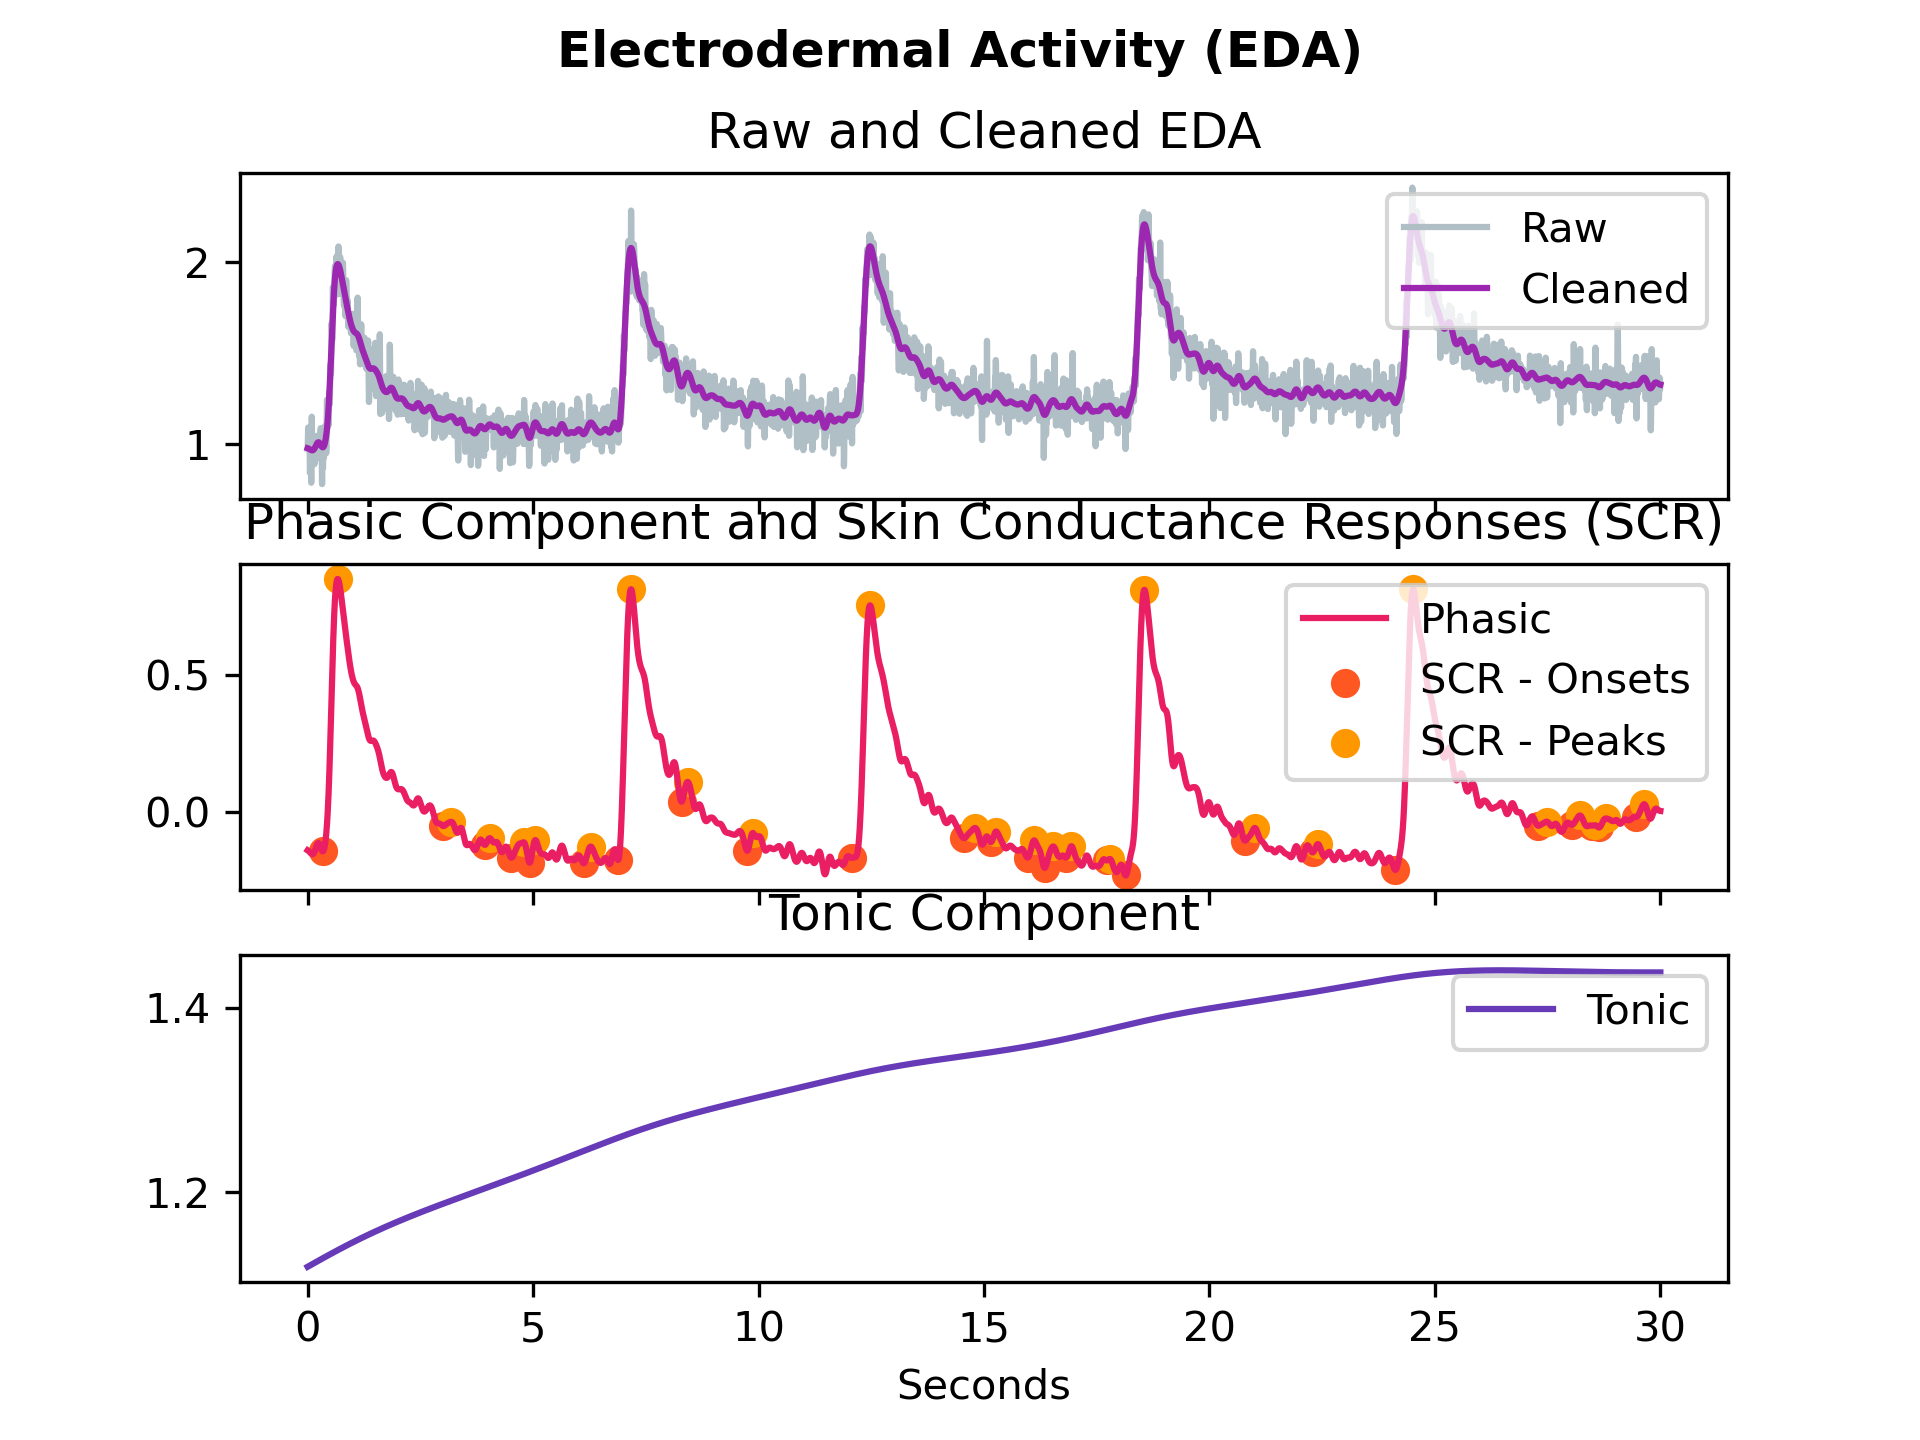
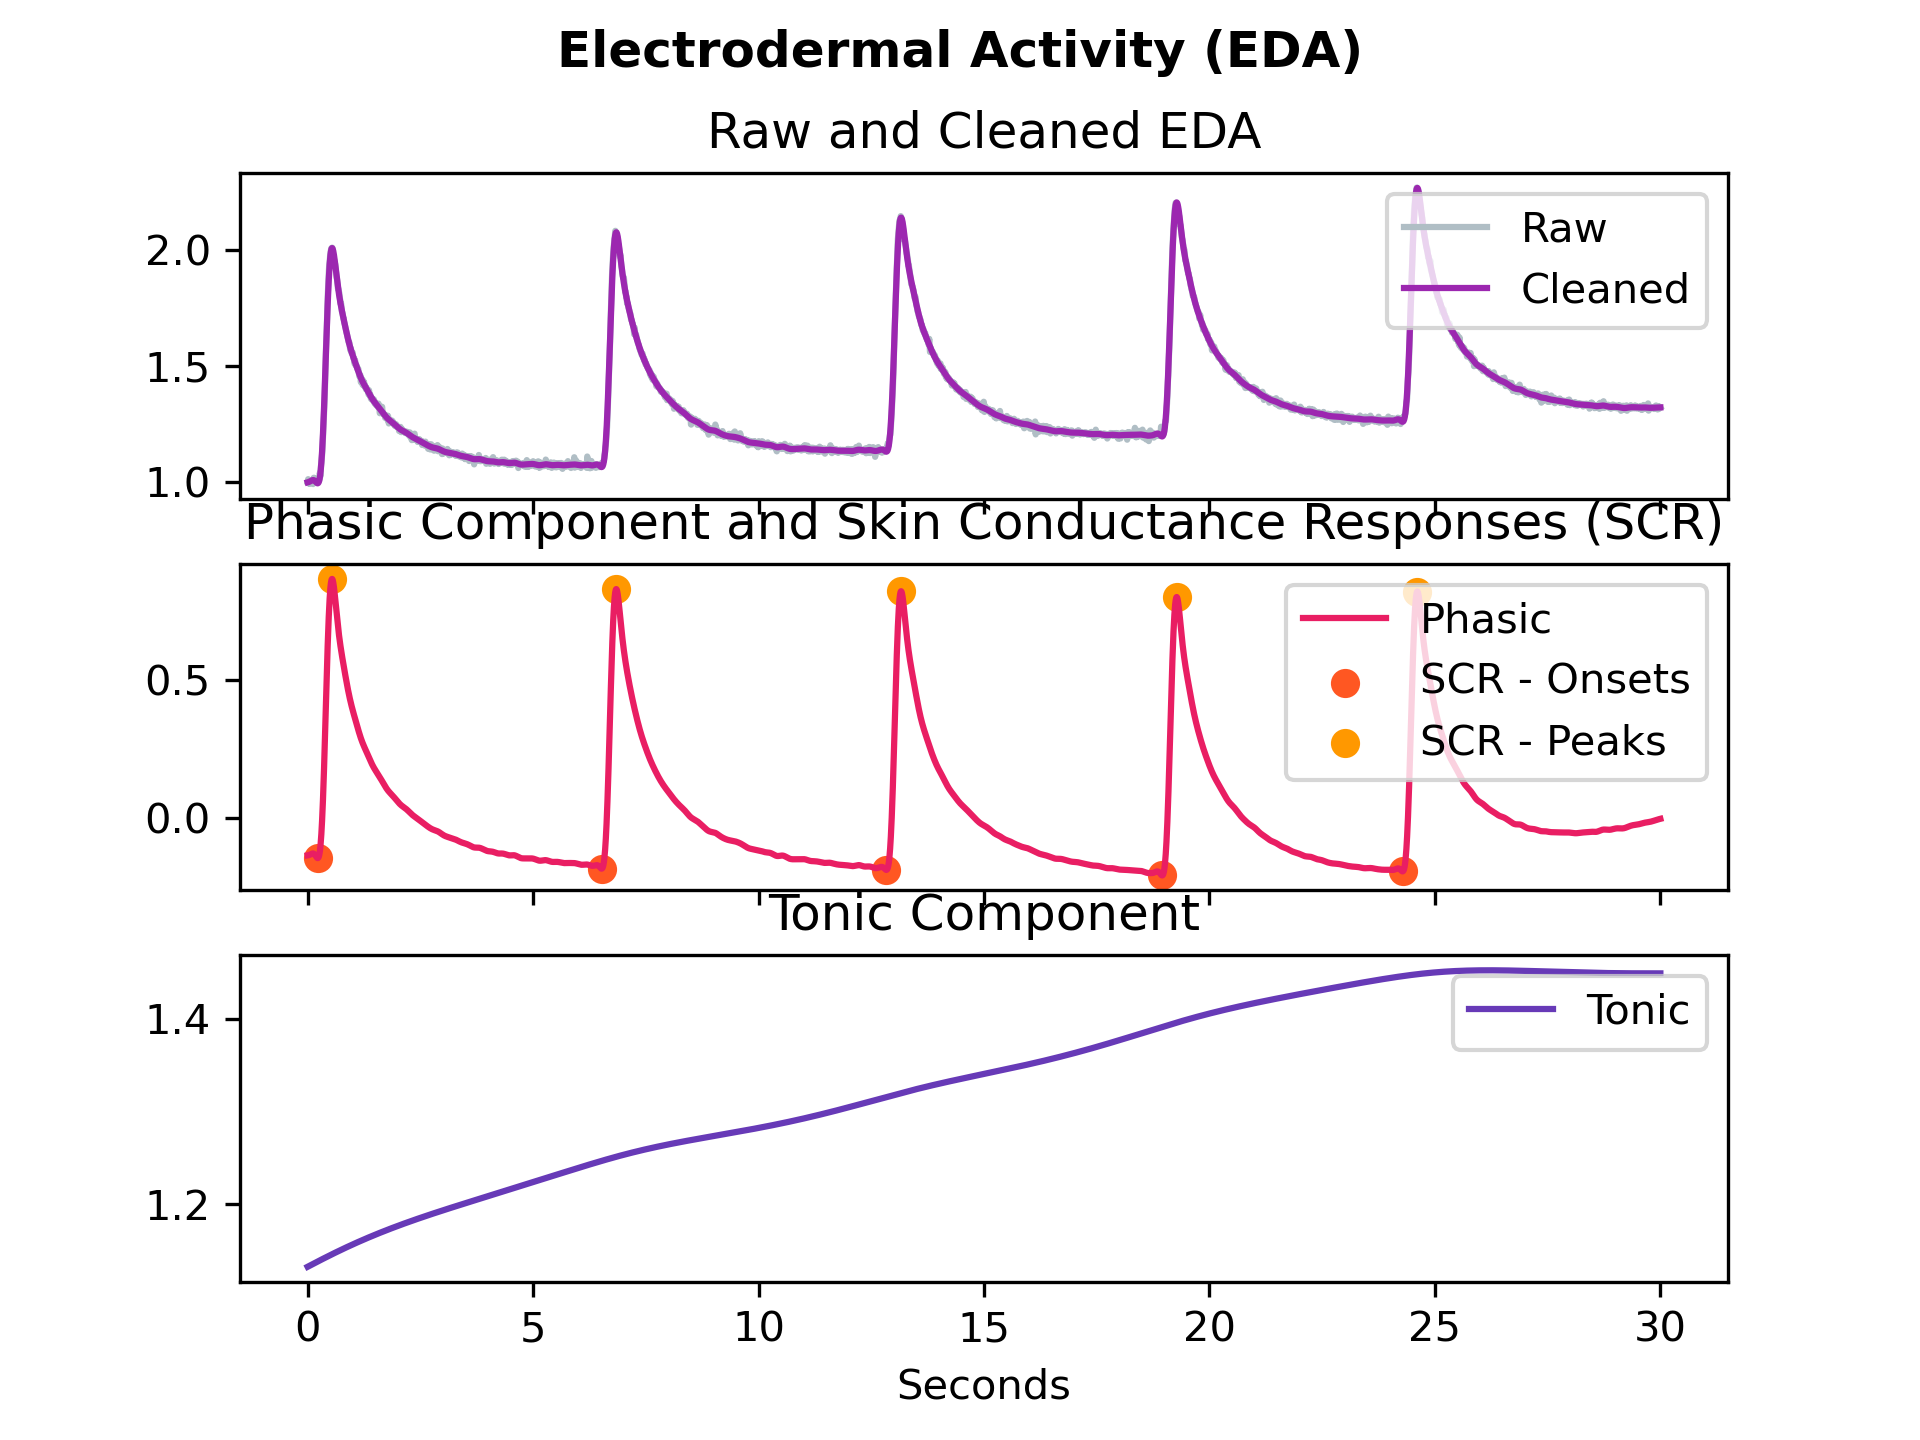
fixes and README

diff --git a/neurokit2/signal/signal_findpeaks.py b/neurokit2/signal/signal_findpeaks.py
@@ -9,7 +9,7 @@ from .signal_zerocrossings import signal_zerocrossings
 from ..misc import findclosest
 
 
-def signal_findpeaks(signal, height_min=None, width_min=None, height_max=None, width_max=None, relative_height_min=None, relative_width_min=None, relative_height_max=None, relative_width_max=None):
+def signal_findpeaks(signal, height_min=None, height_max=None, relative_height_min=None, relative_height_max=None, relative_mean=True, relative_median=False, relative_max=False):
     """Find peaks in a signal.
 
     Locate peaks (local maxima) in a signal and their related characteristics, such as height (prominence), width and distance with other peaks.
@@ -18,10 +18,12 @@ def signal_findpeaks(signal, height_min=None, width_min=None, height_max=None, w
     ----------
     signal : list, array or Series
         The signal channel in the form of a vector of values.
-    distance_min, height_min, width_min, distance_max, height_max, width_max : float
-        The minimum or maximum distance (between peaks, in number of sample points), height (i.e., amplitude in terms of absolute values) or width of the peaks (in number of sample points). For example, `distance_min=20` will remove all peaks which distance with the previous peak is smaller or equal to 20 sample points.
-    relative_distance_min, relative_height_min, relative_width_min, relative_distance_max, relative_height_max, relative_width_max : float
-        The minimum or maximum distance (between peaks), height (i.e., amplitude) or width of the peaks in terms of standard deviation from the sample. For example, `relative_distance_min=-2.96` will remove all peaks which distance lies below 2.96 standard deviations from the mean of the distances.
+    height_min, distance_max : float
+        The minimum or maximum height (i.e., amplitude in terms of absolute values). For example, `height_min=20` will remove all peaks which height is smaller or equal to 20 (in the provided signal's values).
+    relative_height_min, relative_height_max : float
+        The minimum or maximum height (i.e., amplitude) relative to the sample (see below).
+    relative_mean, relative_median, relative_max : bool
+        If a relative threshold is specified, how should it be computed (i.e., relative to what?). `relative_mean=True` will use Z-scores. For example, `relative_height_min=-2.96` will remove all peaks which height lies below 2.96 standard deviations from the mean of the heights. Relative to median uses a more robust form of standardization (see `standardize`), and relative to max will consider the maximum height as the reference.
 
     Returns
     ----------
@@ -31,8 +33,8 @@ def signal_findpeaks(signal, height_min=None, width_min=None, height_max=None, w
             - 'Distance' contains, for each peak, the closest distance with another peak. Note that these values will be recomputed after filtering to match the selected peaks.
             - 'Height' contains the prominence of each peak. See `scipy.signal.peak_prominences()`.
             - 'Width' contains the width of each peak. See `scipy.signal.peak_widths()`.
-            - 'Onset' contains the onset, start (or left trough), of each peak. See `scipy.signal.peak_widths()`.
-            - 'Offset' contains the offset, end (or right trough), of each peak. See `scipy.signal.peak_widths()`.
+            - 'Onset' contains the onset, start (or left trough), of each peak.
+            - 'Offset' contains the offset, end (or right trough), of each peak.
 
     Examples
     ---------
@@ -58,43 +60,30 @@ def signal_findpeaks(signal, height_min=None, width_min=None, height_max=None, w
 
     See Also
     --------
-    scipy.signal.find_peaks, scipy.signal.peak_widths, peak_prominences.signal.peak_widths
+    scipy.signal.find_peaks, scipy.signal.peak_widths, peak_prominences.signal.peak_widths, eda_findpeaks, ecg_findpeaks, rsp_findpeaks
     """
     info = _signal_findpeaks_scipy(signal)
 
-    keep = np.full(len(info["Peaks"]), True)
+    # Absolute
+    info = _signal_findpeaks_keep(info, what="Height",
+                                  below=height_max,
+                                  above=height_min,
+                                  relative_mean=False,
+                                  relative_median=False,
+                                  relative_max=False)
 
-    # Absolute indices - min
-    if height_min is not None:
-        keep[info["Height"] < height_min] = False
-    if width_min is not None:
-        keep[info["Width"] < width_min] = False
-
-    # Absolute indices - max
-    if height_max is not None:
-        keep[info["Height"] > height_max] = False
-    if width_max is not None:
-        keep[info["Width"] > width_max] = False
-
-    # Relative indices - min
-    if relative_height_min is not None:
-        keep[standardize(info["Height"]) < relative_height_min] = False
-    if relative_width_min is not None:
-        keep[standardize(info["Width"]) < relative_width_min] = False
-
-    # Relative indices - max
-    if relative_height_max is not None:
-        keep[standardize(info["Height"]) > relative_height_max] = False
-    if relative_width_max is not None:
-        keep[standardize(info["Width"]) > relative_width_max] = False
+    # Relative
+    info = _signal_findpeaks_keep(info, what="Height",
+                                  below=relative_height_max,
+                                  above=relative_height_min,
+                                  relative_mean=relative_mean,
+                                  relative_median=relative_median,
+                                  relative_max=relative_max)
 
     # Filter
-    info["Peaks"] = info["Peaks"][keep]
     info["Distance"] = _signal_findpeaks_distances(info["Peaks"])
-    info["Height"] = info["Height"][keep]
-    info["Width"] = info["Width"][keep]
-    info["Onset"] = _signal_findpeaks_base(info["Peaks"], signal, what="onset")
-    info["Offset"] = _signal_findpeaks_base(info["Peaks"], signal, what="offset")
+    info["Onset"] = _signal_findpeaks_findbase(info["Peaks"], signal, what="onset")
+    info["Offset"] = _signal_findpeaks_findbase(info["Peaks"], signal, what="offset")
 
     return info
 
@@ -103,8 +92,51 @@ def signal_findpeaks(signal, height_min=None, width_min=None, height_max=None, w
 
 
 # =============================================================================
-# Internals
+# Filtering peaks
 # =============================================================================
+
+def _signal_findpeaks_keep(info, what="Height", below=None, above=None, relative_mean=False, relative_median=False, relative_max=False):
+
+    if below is None and above is None:
+        return info
+
+
+    keep = np.full(len(info["Peaks"]), True)
+
+    what = info[what]
+    if relative_mean is True:
+        what = standardize(what)
+    if relative_median is True:
+        what = standardize(what, robust=True)
+    if relative_median is True:
+        what = what / np.max(what)
+
+    if below is not None:
+        keep[what > below] = False
+    if above is not None:
+        keep[what < above] = False
+
+    info = _signal_findpeaks_filter(info, keep)
+    return info
+
+
+
+
+
+
+
+def _signal_findpeaks_filter(info, keep):
+    for key in info.keys():
+        info[key] = info[key][keep]
+
+    return info
+
+
+
+# =============================================================================
+# Helpers
+# =============================================================================
+
 
 
 def _signal_findpeaks_distances(peaks):
@@ -120,7 +152,7 @@ def _signal_findpeaks_distances(peaks):
 
 
 
-def _signal_findpeaks_base(peaks, signal, what="onset"):
+def _signal_findpeaks_findbase(peaks, signal, what="onset"):
     if what == "onset":
         direction = "smaller"
     else:
@@ -128,11 +160,11 @@ def _signal_findpeaks_base(peaks, signal, what="onset"):
 
     troughs, _ = scipy.signal.find_peaks(-1*signal)
 
-    onsets = np.zeros(len(peaks))
+    bases = np.zeros(len(peaks))
     for i, peak in enumerate(peaks):
-        onsets[i] = findclosest(peak, troughs, direction=direction, strictly=True)
+        bases[i] = findclosest(peak, troughs, direction=direction, strictly=True)
 
-    return onsets
+    return bases
 
 
 

diff --git a/neurokit2/eda/eda_findpeaks.py b/neurokit2/eda/eda_findpeaks.py
@@ -8,11 +8,10 @@ import scipy.signal
 from ..signal import signal_smooth
 from ..signal import signal_zerocrossings
 from ..signal import signal_findpeaks
-from ..signal import signal_smooth
 
 
 
-def eda_findpeaks(eda_phasic, sampling_rate=1000, method="gamboa2008"):
+def eda_findpeaks(eda_phasic, sampling_rate=1000, method="neurokit", amplitude_min=0.1):
     """Identify Skin Conductance Responses (SCR) in Electrodermal Activity (EDA).
 
     Identify Skin Conductance Responses (SCR) peaks in the phasic component of
@@ -30,8 +29,10 @@ def eda_findpeaks(eda_phasic, sampling_rate=1000, method="gamboa2008"):
     sampling_rate : int
         The sampling frequency of the EDA signal (in Hz, i.e., samples/second).
     method : str
-        The processing pipeline to apply. Can be one of "gamboa2008"
-        (default) or "kim2004".
+        The processing pipeline to apply. Can be one of "neurokit" (default),
+        "gamboa2008" or "kim2004" (the default in BioSPPy).
+    amplitude_min : float
+        Only used if 'method' is 'neurokit' or 'kim2004'. Minimum threshold by which to exclude SCRs (peaks) as relative to the largest amplitude in the signal.
 
     Returns
     -------
@@ -68,6 +69,11 @@ def eda_findpeaks(eda_phasic, sampling_rate=1000, method="gamboa2008"):
     >>> nk.events_plot([info_gamboa2008["SCR_Peaks"],
                         info_kim2004["SCR_Peaks"],
                         info_neurokit["SCR_Peaks"]], eda_phasic)
+
+    References
+    ----------
+    - Gamboa, H. (2008). Multi-modal behavioral biometrics based on hci and electrophysiology. PhD ThesisUniversidade.
+    - Kim, K. H., Bang, S. W., & Kim, S. R. (2004). Emotion recognition system using short-term monitoring of physiological signals. Medical and biological engineering and computing, 42(3), 419-427.
     """
     # Try to retrieve the right column if a dataframe is passed
     if isinstance(eda_phasic, pd.DataFrame):
@@ -81,9 +87,9 @@ def eda_findpeaks(eda_phasic, sampling_rate=1000, method="gamboa2008"):
     if method in ["gamboa2008", "gamboa"]:
         info = _eda_findpeaks_gamboa2008(eda_phasic)
     elif method in ["kim", "kbk", "kim2004", 'biosppy']:
-        info = _eda_findpeaks_kim2004(eda_phasic, sampling_rate=sampling_rate, amplitude_min=0.1)
+        info = _eda_findpeaks_kim2004(eda_phasic, sampling_rate=sampling_rate, amplitude_min=amplitude_min)
     elif method in ['neurokit', 'neurokit2', 'nk']:
-        info = _eda_findpeaks_neurokit(eda_phasic, sampling_rate=sampling_rate)
+        info = _eda_findpeaks_neurokit(eda_phasic, sampling_rate=sampling_rate, amplitude_min=amplitude_min)
     else:
         raise ValueError("NeuroKit error: eda_findpeaks(): 'method' should be "
                          "one of 'neurokit', 'gamboa2008' or 'kim2004'.")
@@ -113,9 +119,9 @@ def eda_findpeaks(eda_phasic, sampling_rate=1000, method="gamboa2008"):
 # Methods
 # =============================================================================
 
-def _eda_findpeaks_neurokit(eda_phasic, sampling_rate=1000):
+def _eda_findpeaks_neurokit(eda_phasic, sampling_rate=1000, amplitude_min=0.1):
 
-    peaks = signal_findpeaks(eda_phasic, relative_width_min=0.025)
+    peaks = signal_findpeaks(eda_phasic, relative_height_min=amplitude_min, relative_max=True)
 
     amplitudes = eda_phasic[peaks['Peaks']]
 

diff --git a/neurokit2/eda/eda_process.py b/neurokit2/eda/eda_process.py
@@ -54,7 +54,7 @@ def eda_process(eda_signal, sampling_rate=1000):
     eda_decomposed = eda_phasic(eda_cleaned, sampling_rate=sampling_rate)
 
     # Find peaks
-    peaks, info = eda_findpeaks(eda_decomposed["EDA_Phasic"].values, sampling_rate=sampling_rate, method="neurokit")
+    peaks, info = eda_findpeaks(eda_decomposed["EDA_Phasic"].values, sampling_rate=sampling_rate, method="neurokit", amplitude_min=0.1)
 
     # Store
     signals = pd.DataFrame({"EDA_Raw": eda_signal,
